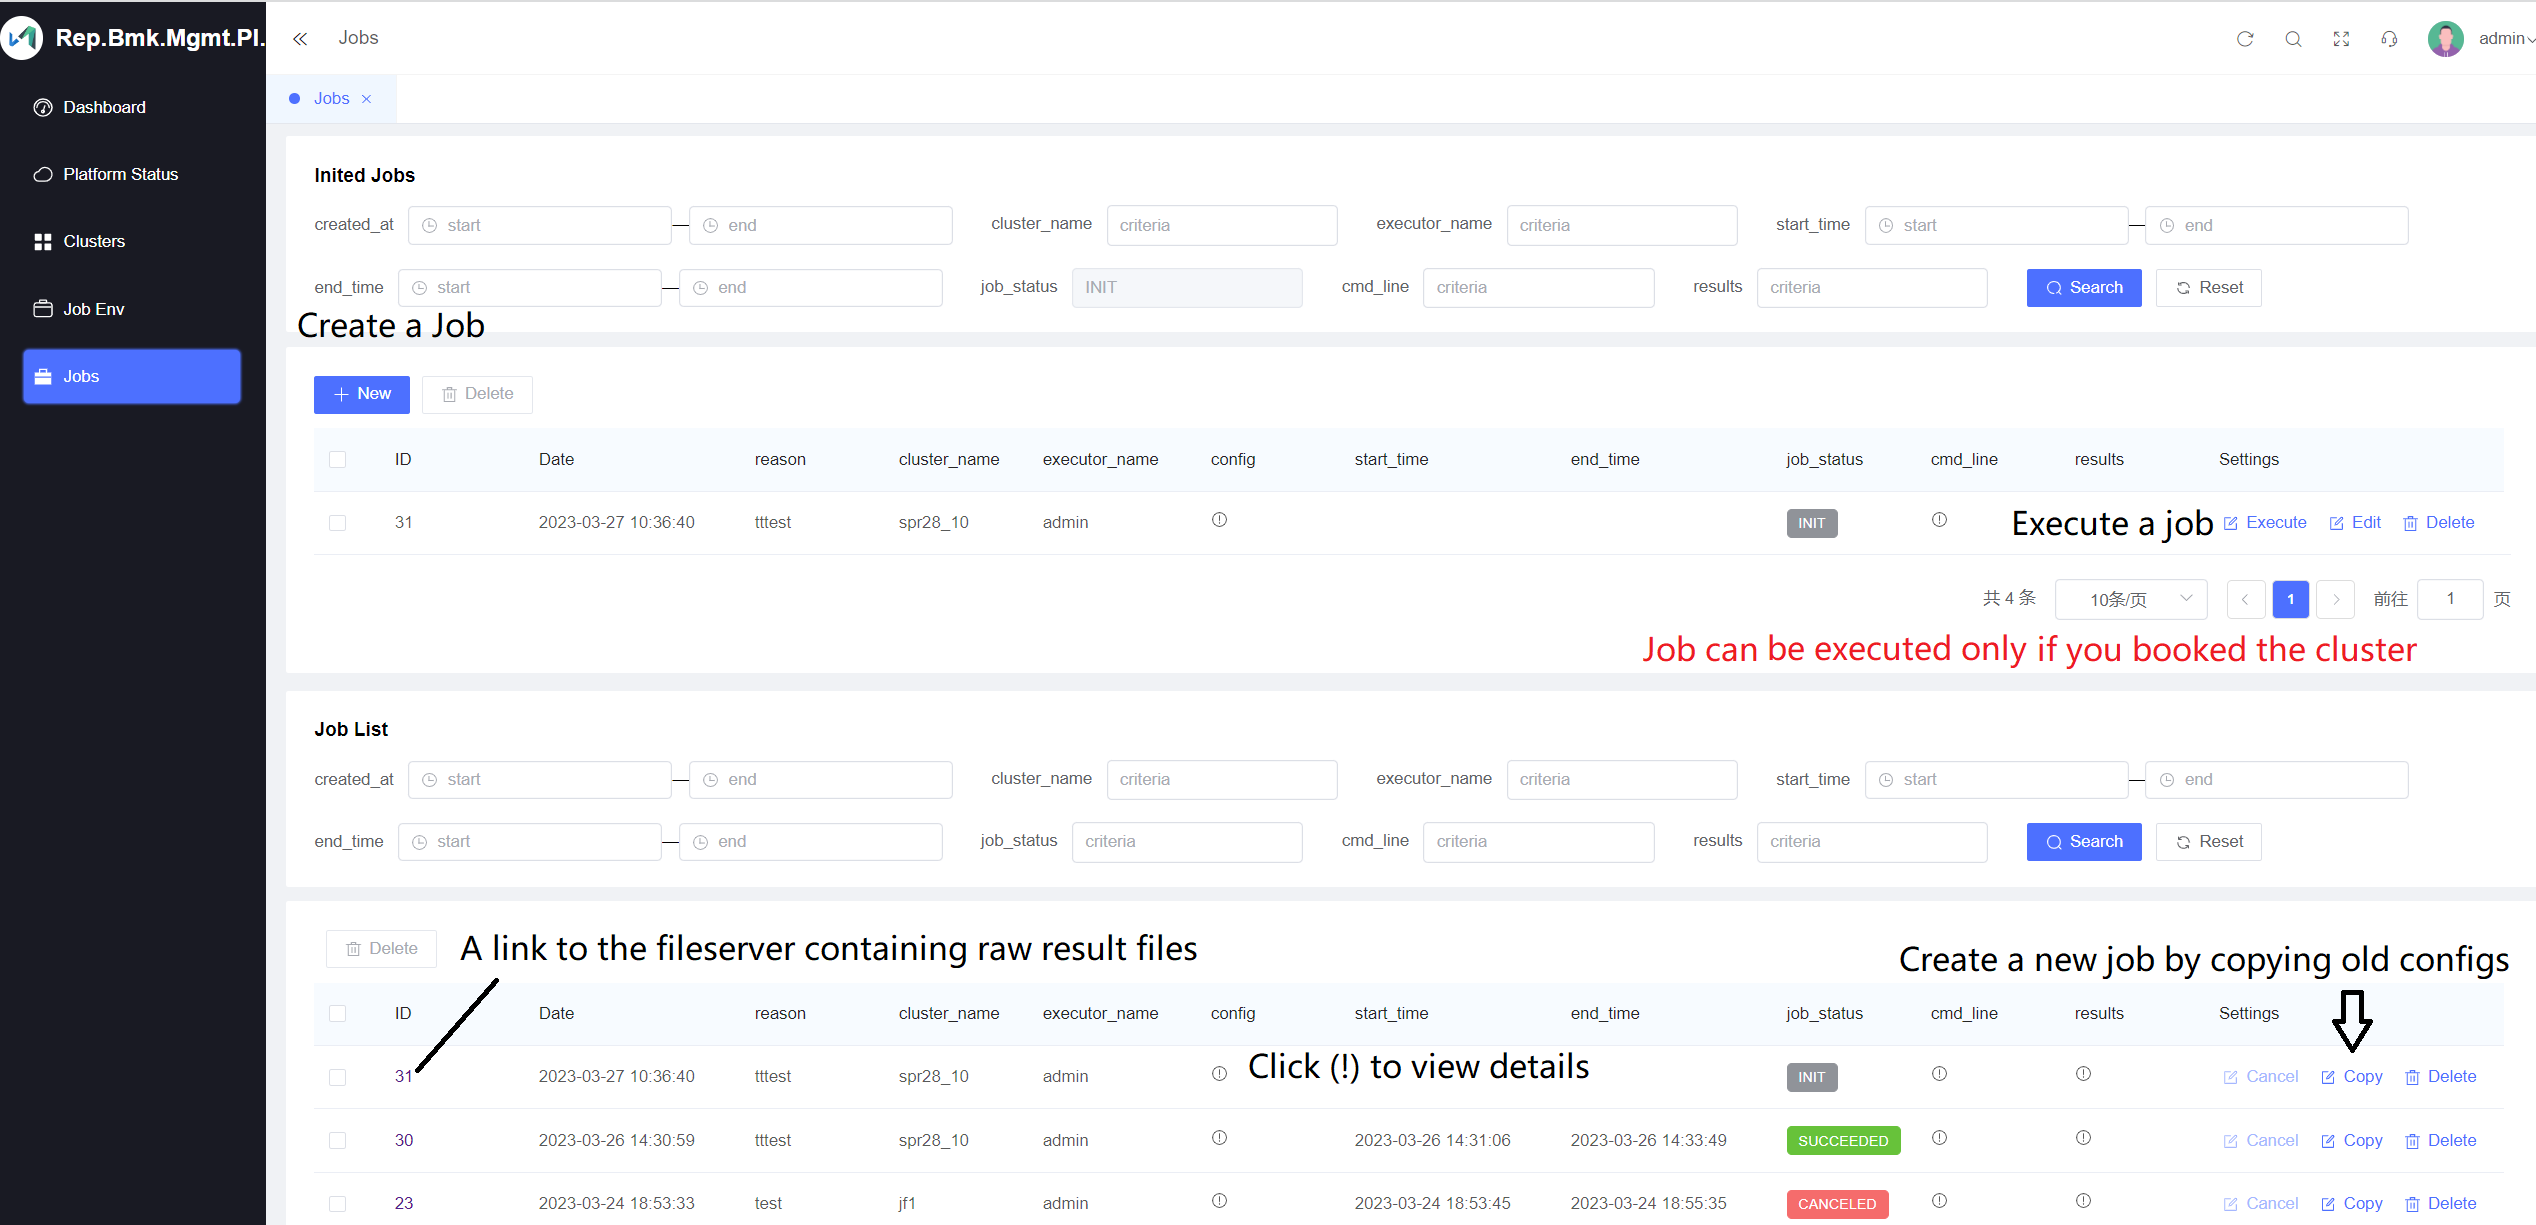
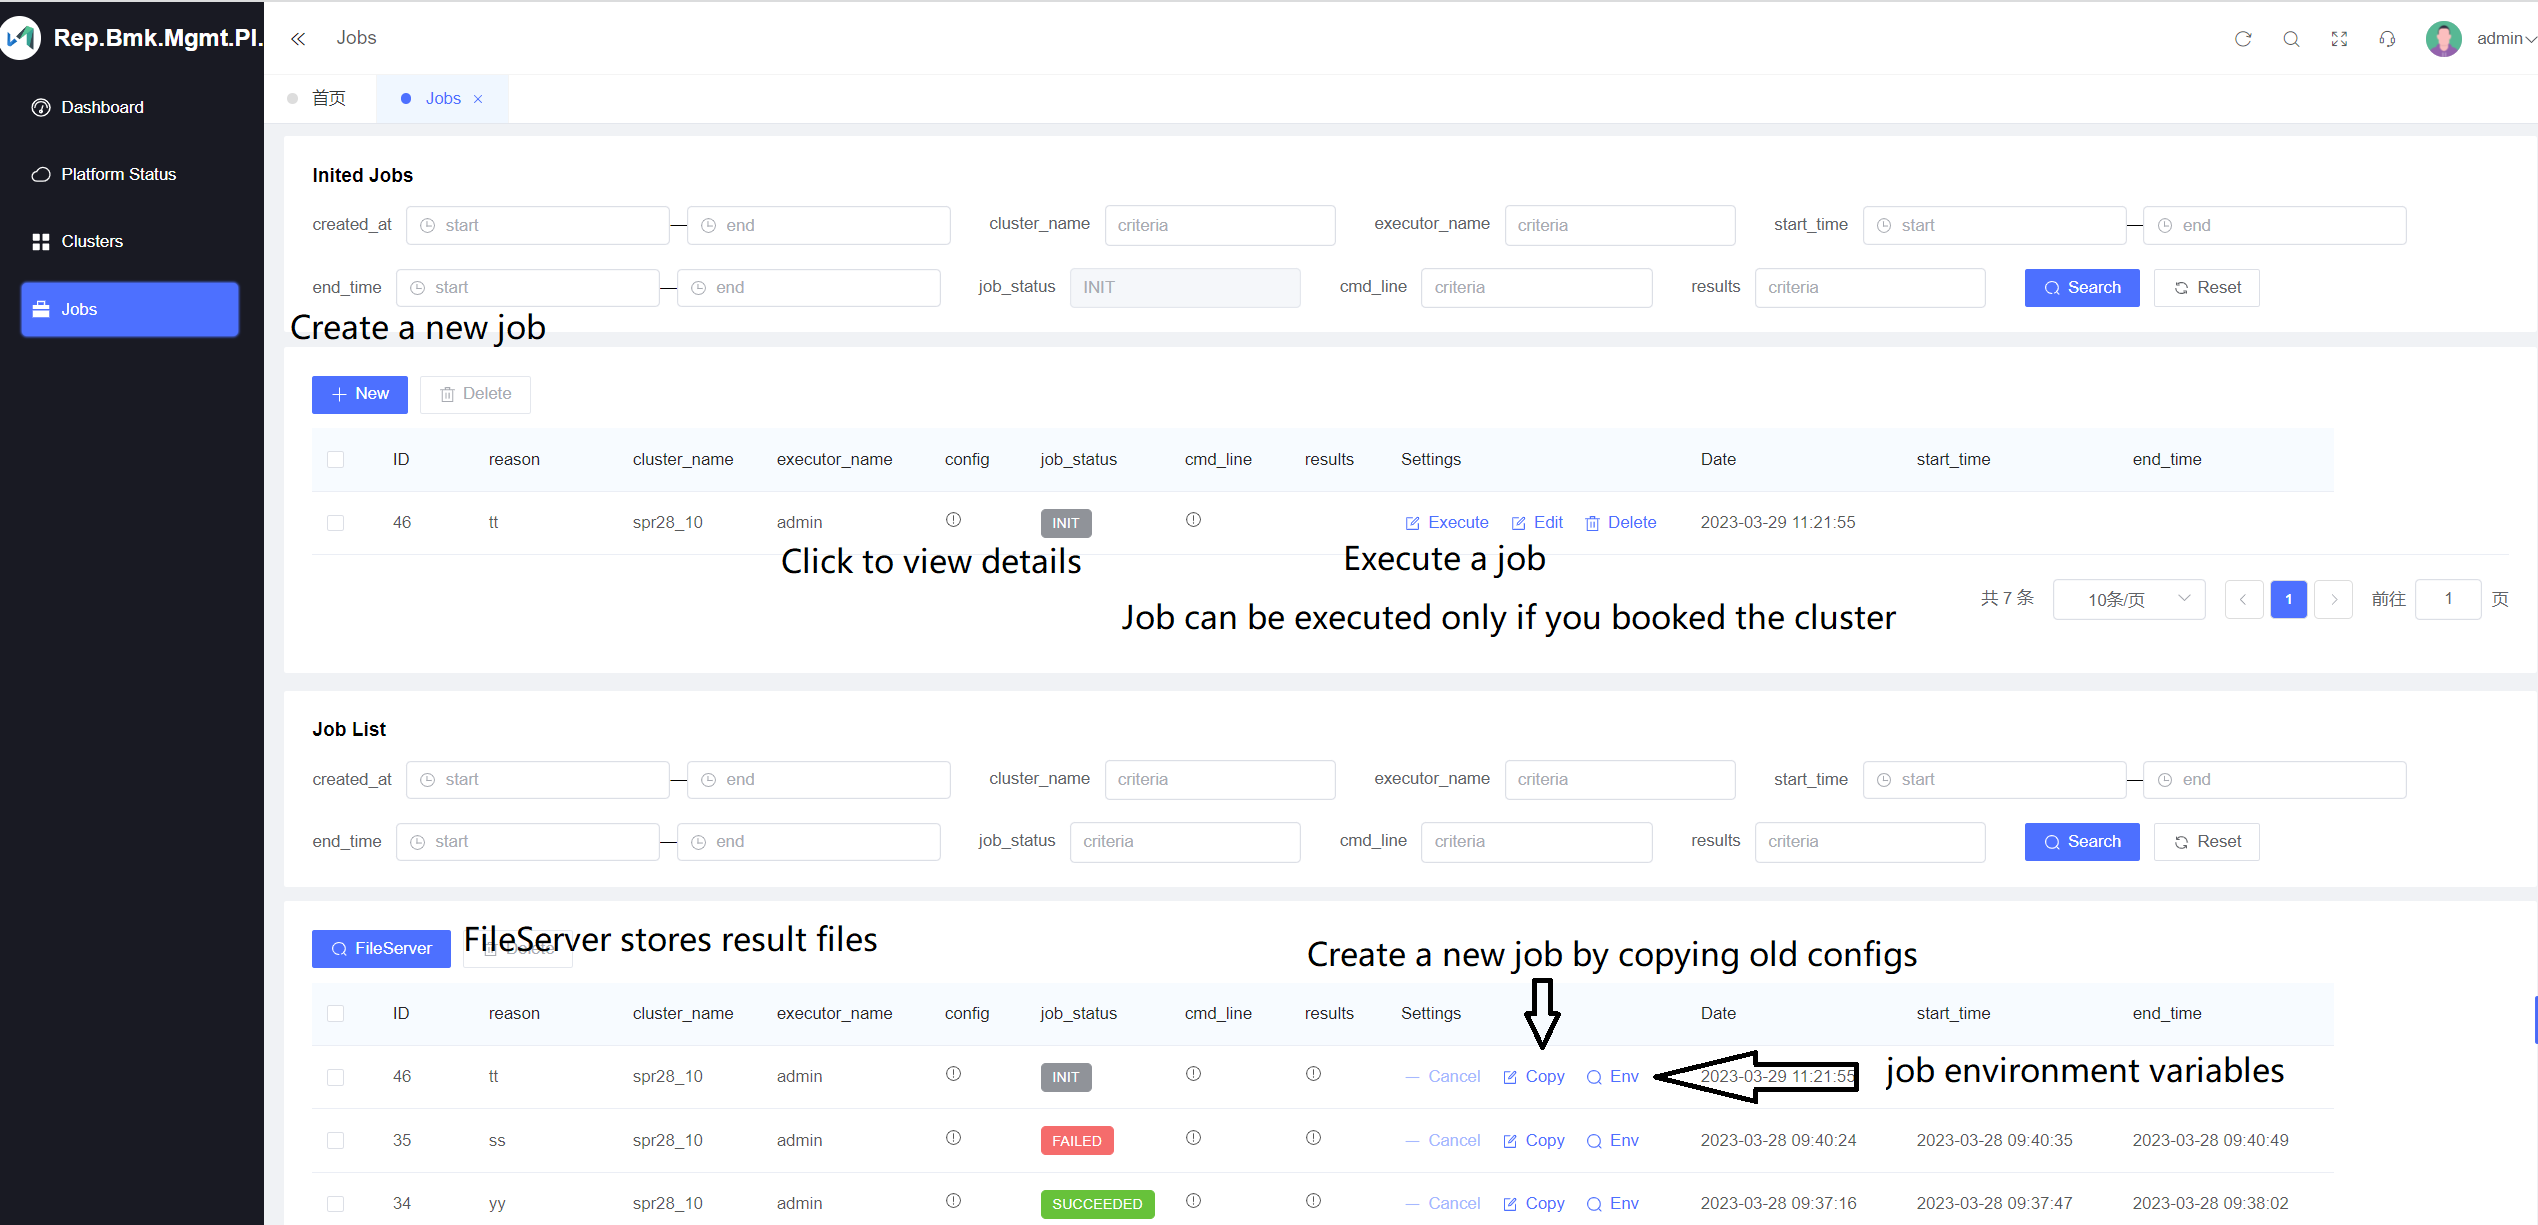
v0.0.2 added: tags when creating a job

diff --git a/web/src/view/jobList/jobList.vue b/web/src/view/jobList/jobList.vue
@@ -327,6 +327,11 @@
             <el-option v-for="item in bookedCluster" :key="item" :label="item" :value="item" />
           </el-select>
         </el-form-item>
+        <el-form-item label="feature:" prop="feature" style="width:80%">
+          <el-select v-model="formData.feature" multiple collapse-tags collapse-tags-tooltip placeholder="select features" >
+            <el-option v-for="item in featureDict" :key="item.label" :label="item.label" :value="item.label" />
+          </el-select>
+        </el-form-item>
         <el-form-item label="reason:" prop="reason">
           <el-input type="textarea" v-model="formData.reason" :clearable="true"  placeholder="Reason for this benchmarking" rows="3" />
         </el-form-item>
@@ -400,7 +405,20 @@ const formData = ref({
   end_time: null,
   cmd_line: '',
   results: '',
+  feature: '',
+  job_id: 0,
+  key_info: '',
+  info_value: '',
 })
+
+const featureDict = ref([])
+const getFeatureDict = async() => {
+  featureDict.value = []
+  const res = await getDictFunc("feature")
+  for (var i=0; i<res.length; i++) {
+    featureDict.value.push({value: res[i].value, label: res[i].label})
+  }
+}
 
 const getConfig = async(workload) => {
   try {
@@ -525,13 +543,13 @@ const getTableData = async() => {
     for (var i=0; i<table.data.list.length; i++) {
       // fetch envs from job_env by job_id
       // todo: too much get env requests
-      const envTable = await getJob_envList({ job_id: table.data.list[i].ID })
-      if (envTable.code === 0) {
-        for (var j=0; j<envTable.data.list.length; j++) {
-          const key = envTable.data.list[j].key_info
-          table.data.list[i][key] = envTable.data.list[j].info_value
-        }
-      }
+      // const envTable = await getJob_envList({ job_id: table.data.list[i].ID })
+      // if (envTable.code === 0) {
+      //   for (var j=0; j<envTable.data.list.length; j++) {
+      //     const key = envTable.data.list[j].key_info
+      //     table.data.list[i][key] = envTable.data.list[j].info_value
+      //   }
+      // }
     }
     tableData.value = table.data.list
     total.value = table.data.total
@@ -550,13 +568,13 @@ const getInitTableData = async() => {
     for (var i=0; i<table.data.list.length; i++) {
       // fetch envs from job_env by job_id
       // todo: too much get env requests
-      const envTable = await getJob_envList({ job_id: table.data.list[i].ID })
-      if (envTable.code === 0) {
-        for (var j=0; j<envTable.data.list.length; j++) {
-          const key = envTable.data.list[j].key_info
-          table.data.list[i][key] = envTable.data.list[j].info_value
-        }
-      }
+      // const envTable = await getJob_envList({ job_id: table.data.list[i].ID })
+      // if (envTable.code === 0) {
+      //   for (var j=0; j<envTable.data.list.length; j++) {
+      //     const key = envTable.data.list[j].key_info
+      //     table.data.list[i][key] = envTable.data.list[j].info_value
+      //   }
+      // }
     }
     tableInitData.value = table.data.list
     totalInit.value = table.data.total
@@ -680,6 +698,7 @@ const updateJob_listFunc = async(row) => {
     formData.value = res.data.rejl
     dialogFormVisible.value = true
     getbookedCluster()
+    getFeatureDict()
   }
 }
 
@@ -708,6 +727,7 @@ const openDialog = () => {
   type.value = 'create'
   dialogFormVisible.value = true
   getbookedCluster()
+  getFeatureDict()
 }
 
 // 打开copy弹窗
@@ -718,6 +738,7 @@ const openCopyDialog = (row) => {
   formData.value.config = row.config
   formData.value.reason = row.reason
   getbookedCluster()
+  getFeatureDict()
 }
 
 // 关闭弹窗
@@ -732,6 +753,10 @@ const closeDialog = () => {
     end_time: null,
     cmd_line: '',
     results: '',
+    feature: '',
+    job_id: 0,
+    key_info: '',
+    info_value: '',
   }
 }
 // 弹窗确定
@@ -745,6 +770,13 @@ const enterDialog = async () => {
         formData.value.executor_name = user.data.userInfo.userName
         formData.value.job_status = "INIT"
         res = await createJob_list(formData.value)
+        res = await getJob_listList()
+        formData.value.job_id = res.data.list[0].ID
+        formData.value.key_info = "feature"
+        for (var i=0; i<featureDict.value.length; i++) {
+          formData.value.info_value = featureDict.value[i].label
+          res = await createJob_env(formData.value)
+        }
         break
       case 'update':
         res = await updateJob_list(formData.value)

diff --git a/web/src/view/jobEnv/jobEnv.vue b/web/src/view/jobEnv/jobEnv.vue
@@ -64,7 +64,7 @@
         <el-table-column align="left" label="catlog" prop="catlog" width="120" />
         <el-table-column align="left" label="sub_catlog" prop="sub_catlog" width="120" />
         <el-table-column align="left" label="key_info" prop="key_info" width="120" />
-        <el-table-column align="left" label="info_value" prop="info_value" width="120" />
+        <el-table-column align="left" label="info_value" prop="info_value" width="200" />
         <el-table-column align="left" label="Settings">
             <template #default="scope">
             <el-button type="primary" link icon="edit" class="table-button" @click="updateJob_envFunc(scope.row)">Edit</el-button>
